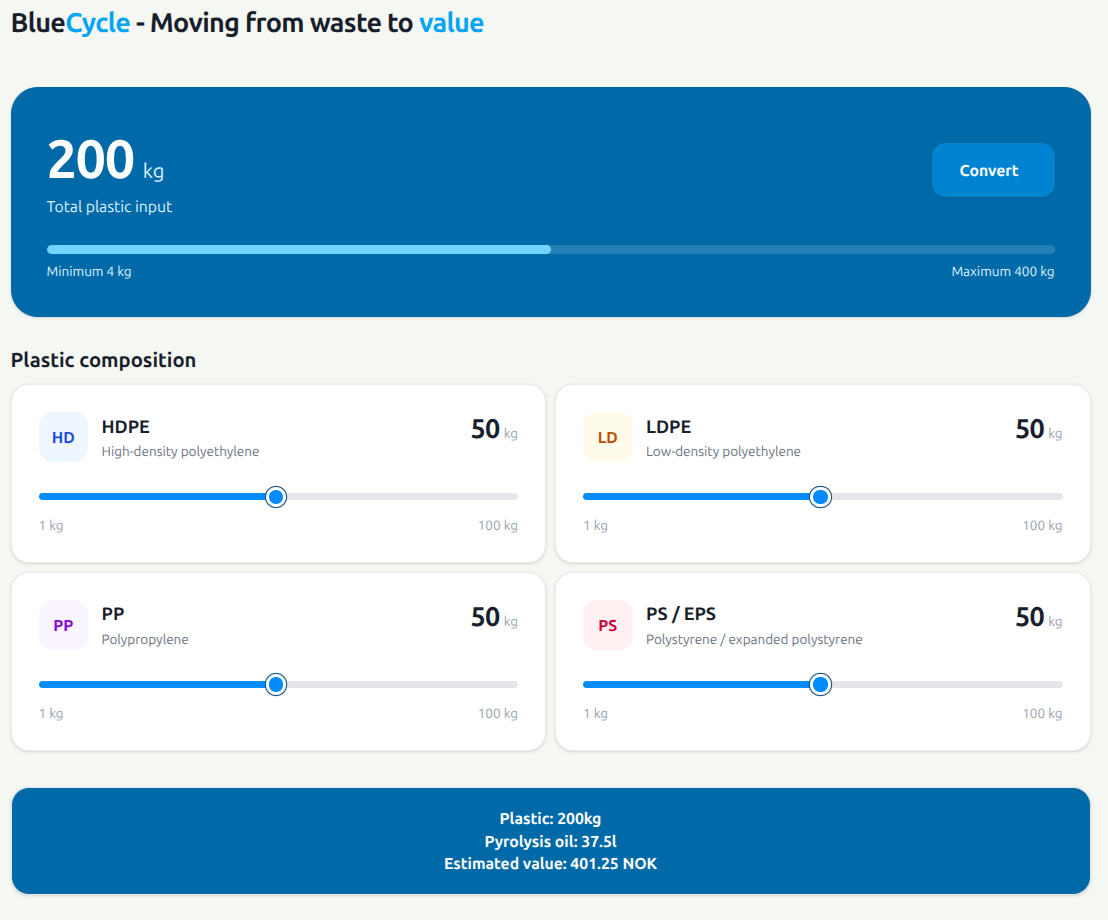
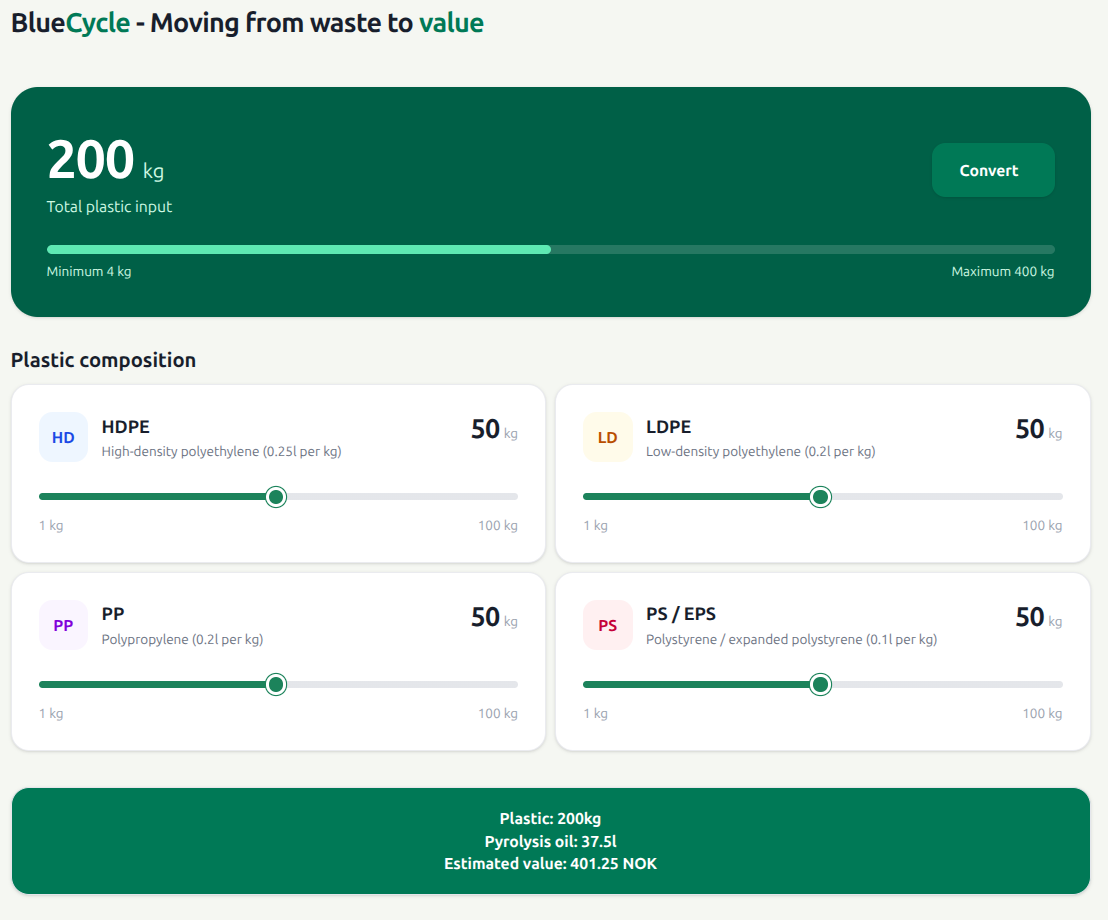
tweaks

diff --git a/src/templates/index.html b/src/templates/index.html
@@ -32,22 +32,22 @@
       width: 18px;
       height: 18px;
       border-radius: 50%;
-      background: #008cff;
+      background: #16845b;
       border: 3px solid white;
-      box-shadow: 0 0 0 1px #165384;
+      box-shadow: 0 0 0 1px #16845b;
     }
 
     input[type="range"]::-moz-range-thumb {
       width: 13px;
       height: 13px;
       border-radius: 50%;
-      background: #165384;
+      background: #16845b;
       border: 3px solid white;
-      box-shadow: 0 0 0 1px #165384;
+      box-shadow: 0 0 0 1px #16845b;
     }
 
     input[type="range"]:focus-visible {
-      outline: 2px solid #165384;
+      outline: 2px solid #16845b;
       outline-offset: 5px;
     }
 
@@ -66,7 +66,7 @@
 
     .convert-button:hover {
       transform: translateY(-1px);
-      background: #008cff;
+      background: #116b49;
     }
 
     .convert-button:active {
@@ -87,7 +87,7 @@
     <header class="mb-10 flex items-center gap-3">
       <div>
         <h1 class="text-xl font-bold tracking-tight sm:text-2xl">
-          Blue<span class="text-sky-500">Cycle</span> - Moving from waste to <span class="text-sky-500">value</span>
+          Blue<span class="text-emerald-700">Cycle</span> - Moving from waste to <span class="text-emerald-700">value</span>
         </h1>
       </div>
     </header>
@@ -103,32 +103,32 @@
     >
 
       <!-- Summary -->
-      <section class="overflow-hidden rounded-3xl bg-sky-700 p-6 text-white shadow-sm sm:p-8">
+      <section class="overflow-hidden rounded-3xl bg-emerald-800 p-6 text-white shadow-sm sm:p-8">
         <div class="flex flex-col gap-5 sm:flex-row sm:items-center sm:justify-between">
           <div>
             <div class="mt-2 flex items-baseline gap-2">
               <output id="total-value" class="text-4xl font-bold tracking-tight sm:text-5xl">
                 200
               </output>
-              <span class="text-lg text-sky-100">kg</span>
+              <span class="text-lg text-emerald-100">kg</span>
             </div>
-            <p class="mt-2 text-sm text-sky-100">
+            <p class="mt-2 text-sm text-emerald-100">
               Total plastic input
             </p>
           </div>
           <div class="flex items-center justify-start">
             <button type="submit"
-                    class="convert-button inline-flex min-h-12 items-center justify-center gap-2 rounded-xl bg-sky-600 px-6 py-3 text-sm font-semibold text-white shadow-sm">
+                    class="convert-button inline-flex min-h-12 items-center justify-center gap-2 rounded-xl bg-emerald-700 px-6 py-3 text-sm font-semibold text-white shadow-sm">
               Convert
               <span aria-hidden="true"></span>
             </button>
           </div>
         </div>
         <div class="mt-6 h-2 overflow-hidden rounded-full bg-white/15">
-          <div id="total-bar" class="h-full rounded-full bg-sky-300 transition-all duration-200"
+          <div id="total-bar" class="h-full rounded-full bg-emerald-300 transition-all duration-200"
                style="width: 50%"></div>
         </div>
-        <div class="mt-2 flex justify-between text-xs text-sky-100">
+        <div class="mt-2 flex justify-between text-xs text-emerald-100">
           <span>Minimum 4 kg</span>
           <span>Maximum 400 kg</span>
         </div>
@@ -153,7 +153,7 @@
                 </div>
                 <div>
                   <h4 class="font-semibold">HDPE</h4>
-                  <p class="mt-0.5 text-xs text-gray-500">High-density polyethylene</p>
+                  <p class="mt-0.5 text-xs text-gray-500">High-density polyethylene (0.25l per kg)</p>
                 </div>
               </div>
               <div class="text-right">
@@ -181,7 +181,7 @@
                 </div>
                 <div>
                   <h4 class="font-semibold">LDPE</h4>
-                  <p class="mt-0.5 text-xs text-gray-500">Low-density polyethylene</p>
+                  <p class="mt-0.5 text-xs text-gray-500">Low-density polyethylene (0.2l per kg)</p>
                 </div>
               </div>
               <div class="text-right">
@@ -209,7 +209,7 @@
                 </div>
                 <div>
                   <h4 class="font-semibold">PP</h4>
-                  <p class="mt-0.5 text-xs text-gray-500">Polypropylene</p>
+                  <p class="mt-0.5 text-xs text-gray-500">Polypropylene (0.2l per kg)</p>
                 </div>
               </div>
               <div class="text-right">
@@ -237,7 +237,7 @@
                 </div>
                 <div>
                   <h4 class="font-semibold">PS / EPS</h4>
-                  <p class="mt-0.5 text-xs text-gray-500">Polystyrene / expanded polystyrene</p>
+                  <p class="mt-0.5 text-xs text-gray-500">Polystyrene / expanded polystyrene (0.1l per kg)</p>
                 </div>
               </div>
               <div class="text-right">
@@ -264,7 +264,7 @@
     <section class="mt-8" aria-label="Conversion results">
       <div id="conversion-result"
           aria-live="polite"
-          class="h-24 flex flex-col  items-center justify-center overflow-y-auto rounded-2xl border border-gray-200 bg-sky-700 p-4 text-sm font-semibold text-white shadow-sm">
+          class="h-24 flex flex-col  items-center justify-center overflow-y-auto rounded-2xl border border-gray-200 bg-emerald-700 p-4 text-sm font-semibold text-white shadow-sm">
         <p class="text-center">Nothing converted yet...</p>
       </div>
     </section>
@@ -290,7 +290,7 @@
         const percentage = ((value - min) / (max - min)) * 100;
 
         slider.style.background =
-          `linear-gradient(to right, #008cff ${percentage}%, #e5e7eb ${percentage}%)`;
+          `linear-gradient(to right, #16845b ${percentage}%, #e5e7eb ${percentage}%)`;
       });
 
       document.getElementById("total-value").value =
